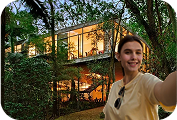
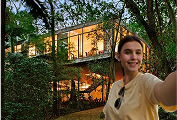
feat: story btn added and removed images radius

diff --git a/mobile/assets/icons/Book.js b/mobile/assets/icons/Book.js
@@ -1,0 +1,19 @@
+import Svg, { Path } from "react-native-svg";
+
+const Book = ({ size = 24, color = "black" }) => { 
+  return (
+    <Svg
+      width={size}
+      height={size}
+      viewBox="0 0 14 12"
+      fill="none"
+    >
+      <Path
+        d="M6.40909 9.69722V3.67778C6.0053 3.43333 5.57689 3.25 5.12386 3.12778C4.67083 3.00556 4.21288 2.94444 3.75 2.94444C3.39545 2.94444 3.04327 2.98009 2.69345 3.05139C2.34364 3.12269 2.00642 3.22963 1.68182 3.37222V9.42222C2.02651 9.3 2.36885 9.20833 2.70882 9.14722C3.04879 9.08611 3.39585 9.05556 3.75 9.05556C4.21288 9.05556 4.66354 9.10913 5.102 9.21628C5.54045 9.32343 5.97615 9.48374 6.40909 9.69722ZM7 11.5C6.52727 11.113 6.01515 10.8125 5.46363 10.5986C4.91212 10.3847 4.34091 10.2778 3.75 10.2778C3.33636 10.2778 2.93021 10.3338 2.53154 10.4458C2.13288 10.5579 1.75115 10.7157 1.38636 10.9194C1.17955 11.0315 0.980212 11.0264 0.788364 10.9042C0.596515 10.7819 0.500394 10.6037 0.5 10.3694V3.00556C0.5 2.89352 0.527182 2.78657 0.581545 2.68472C0.635909 2.58287 0.717061 2.50648 0.825 2.45556C1.27803 2.21111 1.75076 2.02778 2.24318 1.90556C2.73561 1.78333 3.23788 1.72222 3.75 1.72222C4.47879 1.72222 5.09924 1.8088 5.61136 1.98194C6.12348 2.15509 6.675 2.41991 7.26591 2.77639C7.37424 2.8375 7.45559 2.9088 7.50995 2.99028C7.56432 3.07176 7.5913 3.1787 7.59091 3.31111V9.69722C8.02424 9.48333 8.46013 9.32281 8.89859 9.21567C9.33704 9.10852 9.78751 9.05515 10.25 9.05556C10.6045 9.05556 10.9518 9.08611 11.2918 9.14722C11.6317 9.20833 11.9739 9.3 12.3182 9.42222V2.07361C12.4659 2.12454 12.6113 2.18056 12.7543 2.24167C12.8973 2.30278 13.0375 2.37407 13.175 2.45556C13.2833 2.50648 13.3647 2.58287 13.419 2.68472C13.4734 2.78657 13.5004 2.89352 13.5 3.00556V10.3694C13.5 10.6037 13.4039 10.7819 13.2116 10.9042C13.0194 11.0264 12.8201 11.0315 12.6136 10.9194C12.2492 10.7157 11.8677 10.5579 11.469 10.4458C11.0704 10.3338 10.664 10.2778 10.25 10.2778C9.65909 10.2778 9.08788 10.3847 8.53636 10.5986C7.98485 10.8125 7.47272 11.113 7 11.5ZM9.06818 7.83333V1.11111L10.8409 0.5V7.22222L9.06818 7.83333Z"
+        fill={color}
+      />
+    </Svg>
+  );
+};
+
+export default Book;

diff --git a/mobile/app/card-info.jsx b/mobile/app/card-info.jsx
@@ -15,6 +15,7 @@ import Pet from "@/assets/icons/Pet";
 import Camera from "@/assets/icons/Camera";
 import HeartSolidIcon from "@/assets/icons/HeartSolid";
 import HeartIcon from "@/assets/icons/HeartOutline";
+import BookIcon from "@/assets/icons/Book";
 
 // Util
 import { searchPlace, sendToMaps } from "../utils/GoogleMaps";
@@ -30,7 +31,7 @@ import BackBtn from "../components/BackBtn";
 import CommentsCarousel from "@/components/CommentsCarousel";
 
 // Images
-import womanTransparentImg from "@/assets/images/transparent.png";
+import womanTransparentImg from "@/assets/images/womanTransparent.jpg";
 import womanImg from "@/assets/images/woman.jpg";
 
 // Layout
@@ -208,7 +209,14 @@ const CardInfo = ({ free = false }) => {
                   <AccordionItem
                     title="DESCRIÇÃO"
                     content={
-                      <Text className="mb-7">{itemData.description}</Text>
+                      <>
+                        <Text className="mb-7">{itemData.description}</Text>
+
+                        <TouchableOpacity className="flex-row items-center gap-2 mx-auto bg-brown py-1 px-5 rounded-full">
+                          <BookIcon color="#fff" size={20} />
+                          <Text className="text-white text-lg">História</Text>
+                        </TouchableOpacity>
+                      </>
                     }
                   />
                 )}
